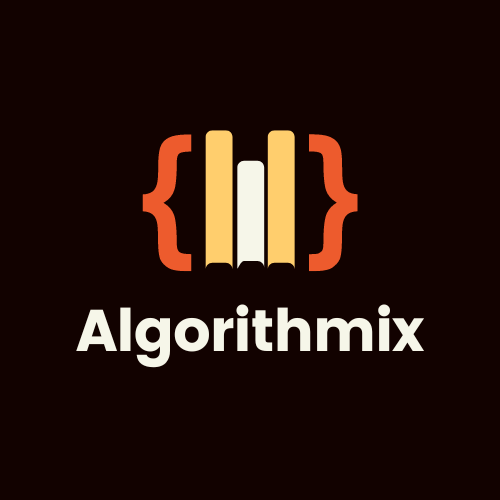
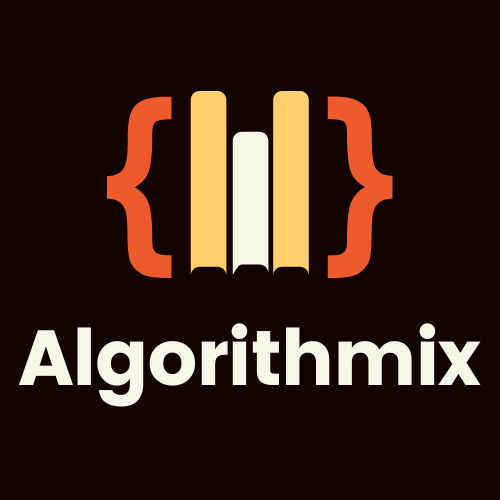
UI update

Changed region(s): [[0.21, 0.18, 0.81, 0.57], [0.03, 0.6, 0.96, 0.81]]

diff --git a/frontend/src/components/Navbar.css b/frontend/src/components/Navbar.css
@@ -1,14 +1,14 @@
 /* Style the navbar with a grey background and some padding */
 .navbar {
     overflow: hidden;
-    background-color: #f1f1f1;
+    background-color: #000000;
     padding: 20px 10px;
 }
   
 /* Style the navbar links */
 .navbar a {
     float: left;
-    color: black;
+    color: white;
     text-align: center;
     padding: 12px;
     text-decoration: none;
@@ -19,15 +19,21 @@
   
 /* Style the logo link */
 .navbar a.logo {
-    font-size: 25px;
+    padding: 0%;
     font-weight: bold;
+    font-size: 20px;
+    color: orangered;
 }
 
 /* Style the logo image */
 .logo-image {
-    height: 40px;  /* Adjust size as needed */
-    width: 40px;
-    width: auto;
+    height: 10px;  /* Adjust size as needed */
+    /* width: 10px; */
+}
+
+.navbar a.logo img {
+    height: 70px;  /* Adjust size as needed */
+    /* width: 30px; */
 }
 
 /* Change the background color on mouse-over */
@@ -44,6 +50,7 @@
   
 /* Float the link section to the right */
 .navbar-right {
+    margin: 12.5px;
     float: right;
 }
 

diff --git a/frontend/src/components/Navbar.js b/frontend/src/components/Navbar.js
@@ -9,7 +9,7 @@ const Header = () => {
     <div>
       <div className="navbar">
         <a href="/" className="logo">
-          <img url = "../../public/Algorithmix.png" alt="Algorithmix" className="logo-img" />
+        <img src="/Algorithmix.png" alt="Algorithmix" className="logo-img" />
         </a>
         <div className="navbar-right">
           <a className="active" href="/">Home</a>
